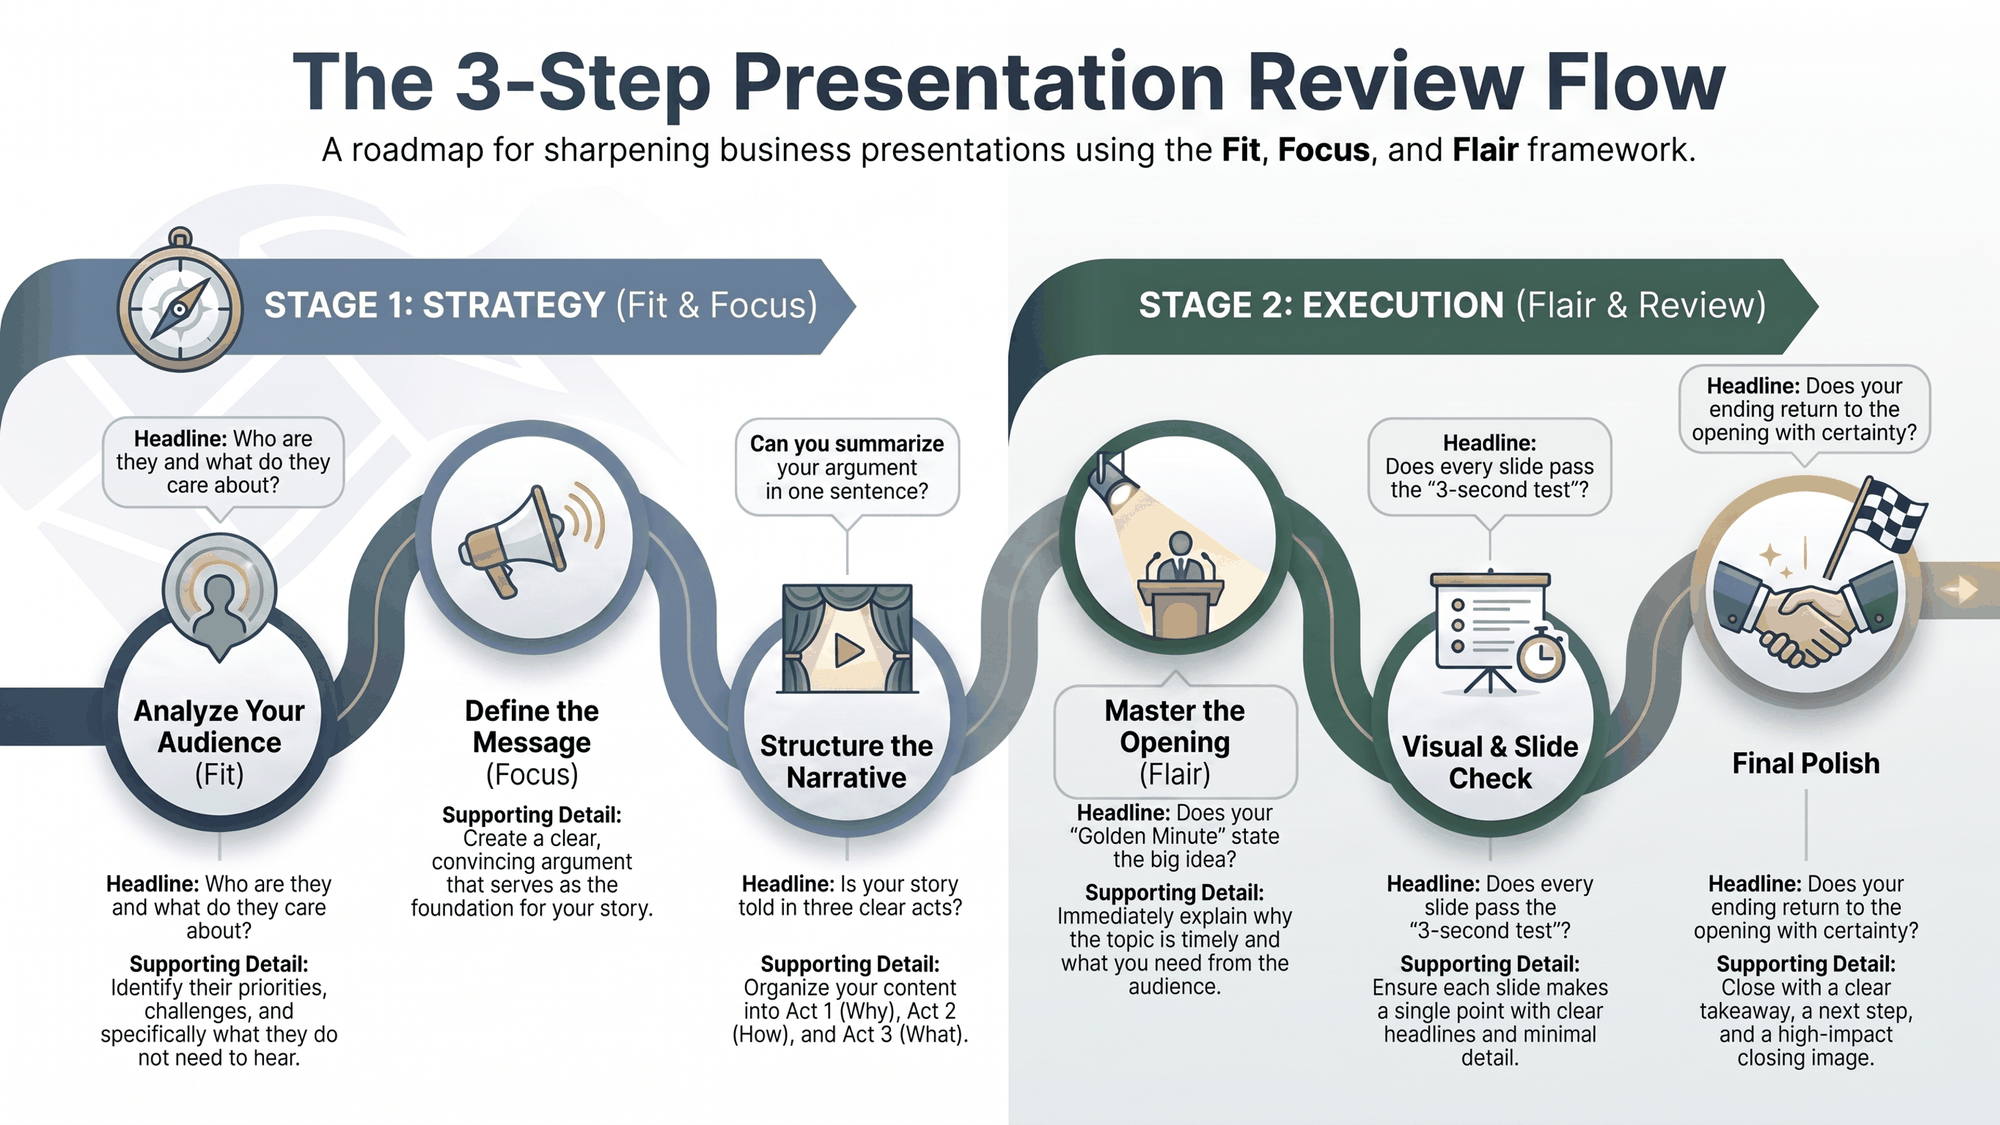
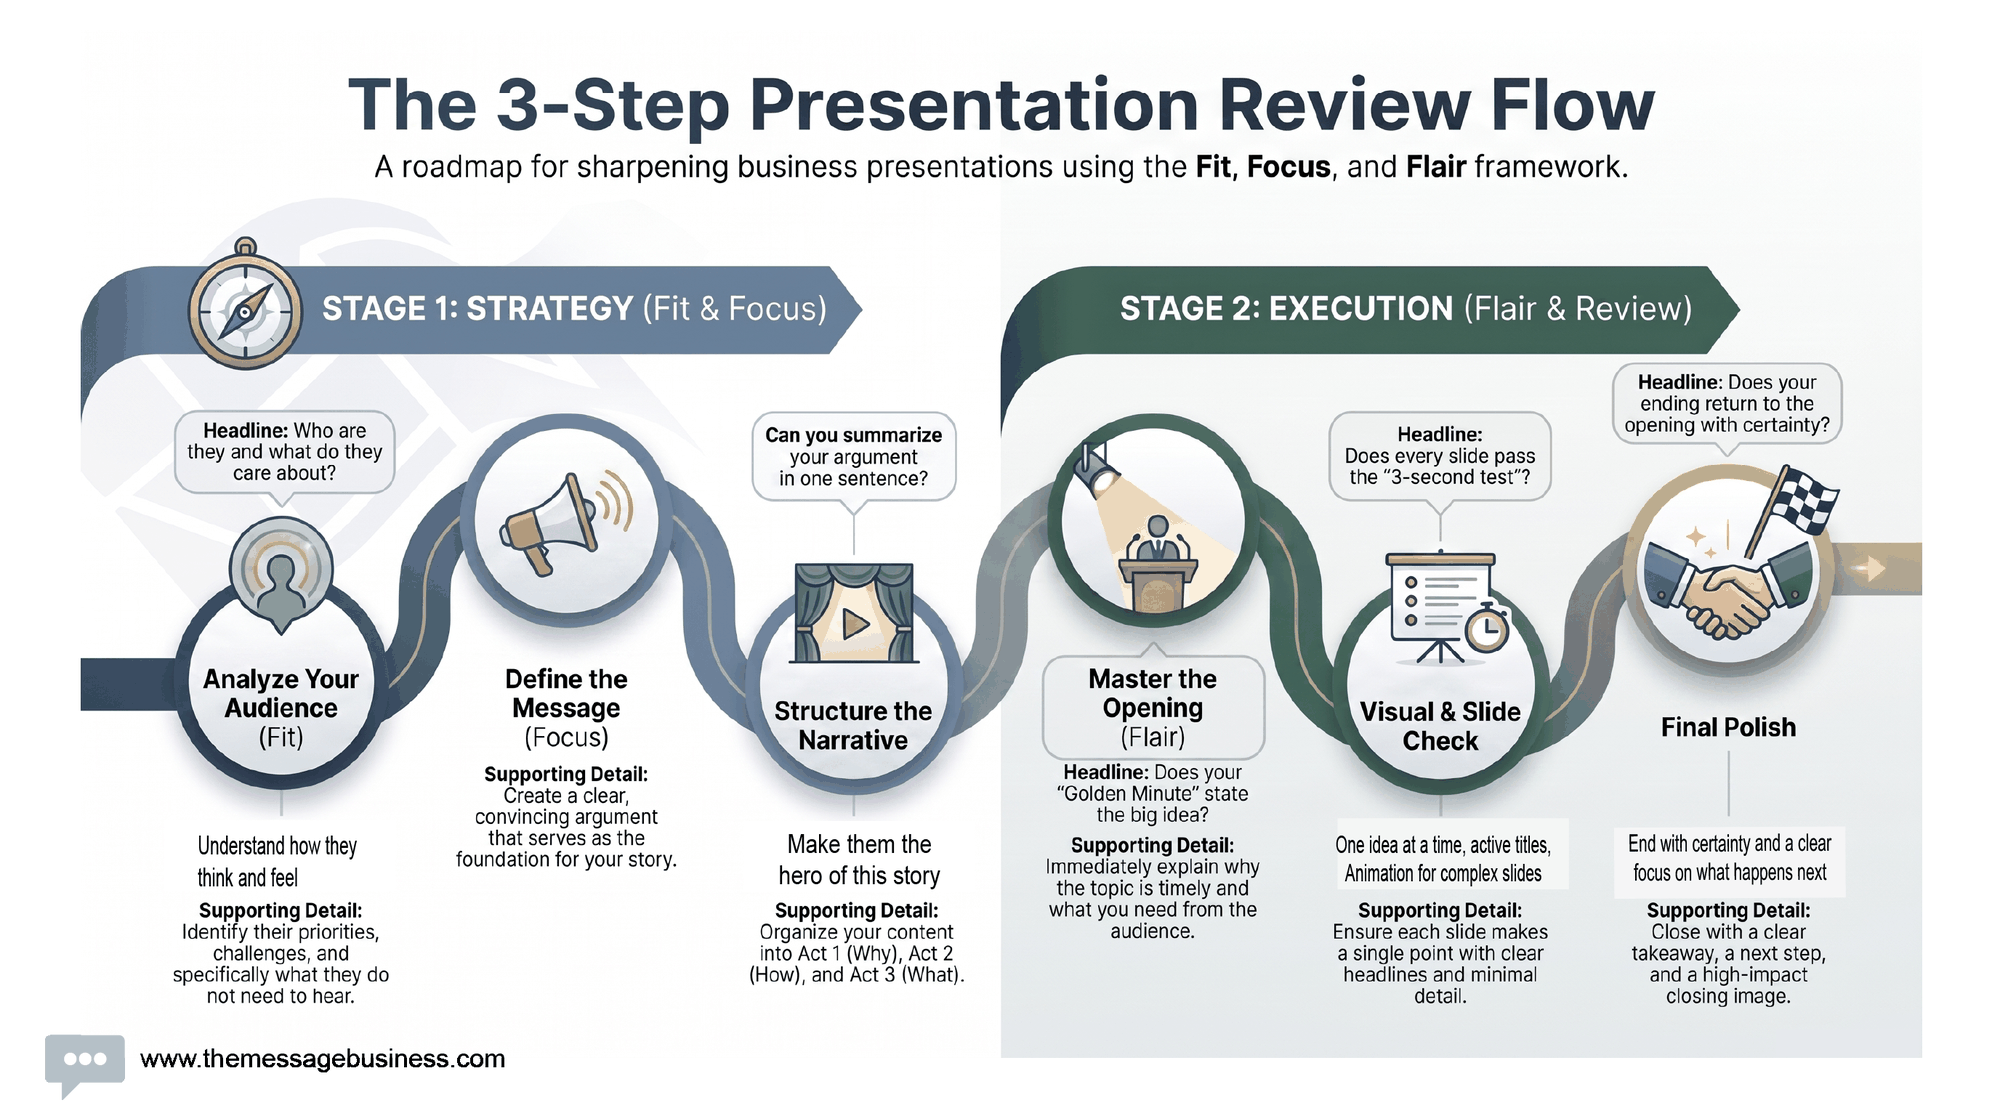
Update Barcelona review flow infographic

diff --git a/index.html b/index.html
@@ -602,8 +602,8 @@ footer .fine{margin-top:20px;font-size:13px;color:#8FA5C8}
 
     <figure class="flow">
       <a href="files/barcelona-review-flow.png" target="_blank" rel="noopener">
-        <img src="files/barcelona-review-flow.png" width="2000" height="1125" loading="lazy"
-             alt="The presentation review flow. Stage 1, Strategy: analyse your audience (Fit), define the message (Focus), structure the narrative in three acts. Stage 2, Execution: master the opening (Flair), check every slide against the three-second test, and polish the ending so it returns to the opening with certainty.">
+        <img src="files/barcelona-review-flow.png" width="2000" height="1116" loading="lazy"
+             alt="The presentation review flow. Stage 1, Strategy: analyse your audience and understand how they think and feel (Fit); define the message (Focus); structure the narrative in three acts and make them the hero of the story. Stage 2, Execution: master the opening (Flair); check every slide against the three-second test, one idea at a time with active titles; end with certainty and a clear focus on what happens next.">
       </a>
       <figcaption>How we work, from your preparation through to the one to one sessions in Barcelona. Tap to open it full size.</figcaption>
     </figure>
